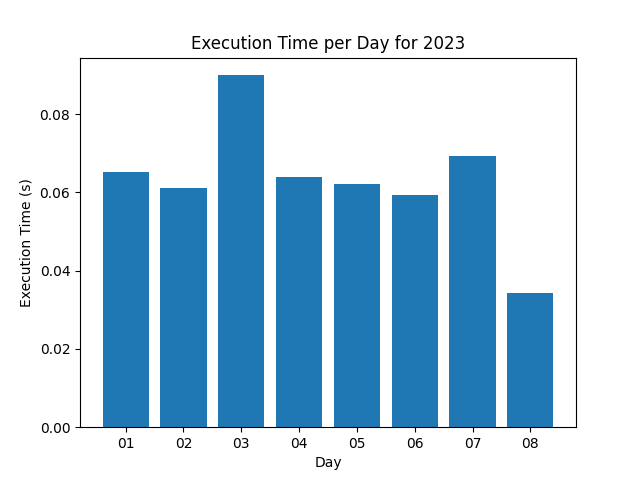
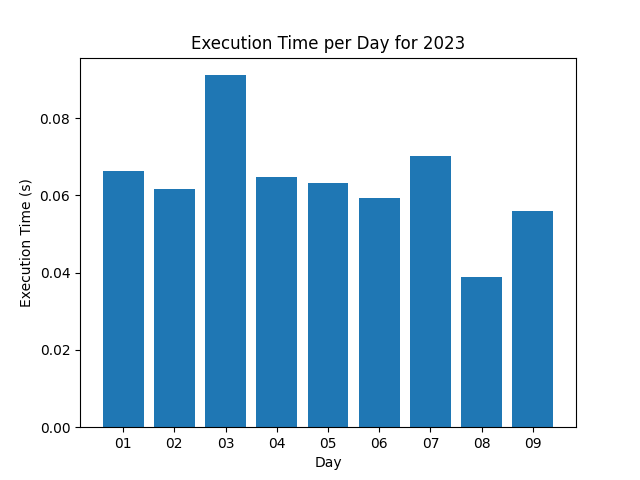
20231209 - Added solution for day_09 and added support for automatically grabbing input text

diff --git a/2023/day_09/solution.py b/2023/day_09/solution.py
@@ -1,0 +1,59 @@
+from functools import reduce
+from pathlib import Path
+
+SCRIPT_PATH = Path(__file__).resolve().parent
+INPUT_PATH = Path(SCRIPT_PATH, "inputs/input.txt")
+# INPUT_PATH = Path(SCRIPT_PATH, "inputs/example1.txt")
+
+def parse_input(data):
+    # Parse input into a list of lists and return the data
+    data_list = [list(map(int, line.split())) for line in data.splitlines()]
+
+    return data_list
+
+def get_history(report):
+    # Until the report is all zeros, loop through and set report equal to the difference between each of the previous pairs
+    # Return a generator that will output all levels of the report's history
+    yield report
+    while any(report):
+        curr_history = []
+        for i in range(len(report) - 1):
+            curr_history.append(report[i + 1] - report[i])
+        report = curr_history.copy()
+        yield curr_history
+
+def part1(parsed_data):
+    # Get the history for each entry, find the last item of each list, and add them progressively
+    total = 0
+    for idx, reading in enumerate(parsed_data):
+        next_values = [section[-1] for section in reversed(list(get_history(reading)))]  # Reverse the list for logical processing
+        next_value = reduce(lambda x,y: x+y , next_values)  # Use reduce to add and then use the ouput to add to the next item in the list
+        print(f"Next value of reading {idx + 1} is {next_value}")
+        total += next_value
+
+    return total
+
+def part2(parsed_data):
+    # Get the history for each entry, find the first item of each list, and subtract them progressively
+    total = 0
+    for idx, reading in enumerate(parsed_data):
+        next_values = [section[0] for section in reversed(list(get_history(reading)))]  # Reverse the list for logical processing
+        first_value = reduce(lambda x,y: y-x , next_values)  # Use reduce to subtract and then use the ouput to add to the next item in the list
+        print(f"First value of reading {idx + 1} is {first_value}")
+        total += first_value
+    
+    return total
+
+if __name__ == "__main__":
+    with open(INPUT_PATH , "r") as f:
+        parsed_data = parse_input(f.read())
+
+    print("--- PART 1 ---")
+    answer1 = part1(parsed_data)
+    
+    print("\n--- PART 2 ---")
+    answer2 = part2(parsed_data)
+
+    print("\n--- ANSWERS ---")
+    print(f"PART1 - The sum of all next values is {answer1}")
+    print(f"PART2 - The sum of all first values is {answer2}")

diff --git a/bin/scripts/new_day.py b/bin/scripts/new_day.py
@@ -1,6 +1,7 @@
 import os
 import shutil
 import argparse
+import requests
 from datetime import datetime
 from pathlib import Path
 
@@ -22,13 +23,23 @@ def parse_args() -> argparse.Namespace:
 
     return args
 
-def add_files(path):
+def add_files(path, year, day):
     inputs_path = Path(path, 'inputs')
     inputs_path.mkdir(parents=True, exist_ok=False)
-    input_files =['example1.txt', 'example2.txt', 'input.txt']
-    for file in input_files:
+    with open(Path(inputs_path, 'input.txt'), 'w') as f:
+        f.write(pull_input(year, day))
+    example_files =['example1.txt', 'example2.txt']
+    for file in example_files:
         open(Path(inputs_path, file), 'x').close()
     shutil.copy(Path(TEMPLATES_DIR, '2023_day_template.py'), Path(path, 'solution.py'))
+
+def pull_input(year, day):
+    session_cookie = os.getenv("AOC_SESSION_COOKIE")
+    url = f"https://adventofcode.com/{year}/day/{day}/input"
+    cookies = {"session": session_cookie}
+    response = requests.get(url, cookies=cookies)
+    
+    return response.text
 
 
 ### Entry Point ###
@@ -40,7 +51,7 @@ def main():
     except FileExistsError:
         print("Folder already exists.  Please delete or choose a different day.")
         exit(1)
-    add_files(new_day_path)
+    add_files(new_day_path, args.year, args.day)
     
 
 if __name__ == "__main__":
